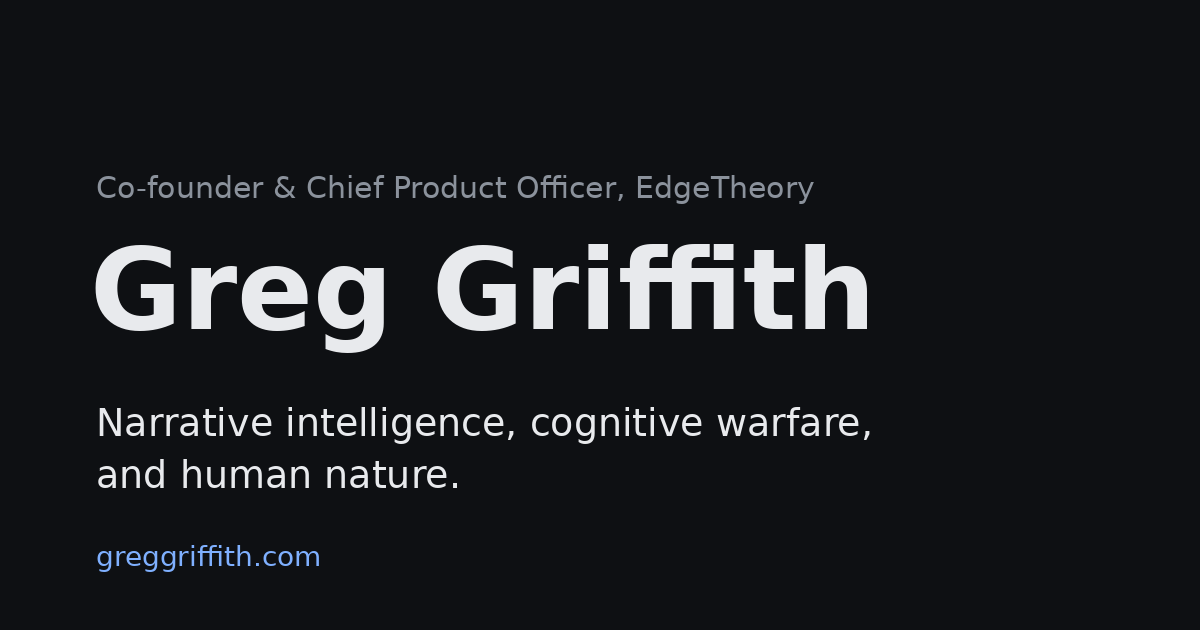
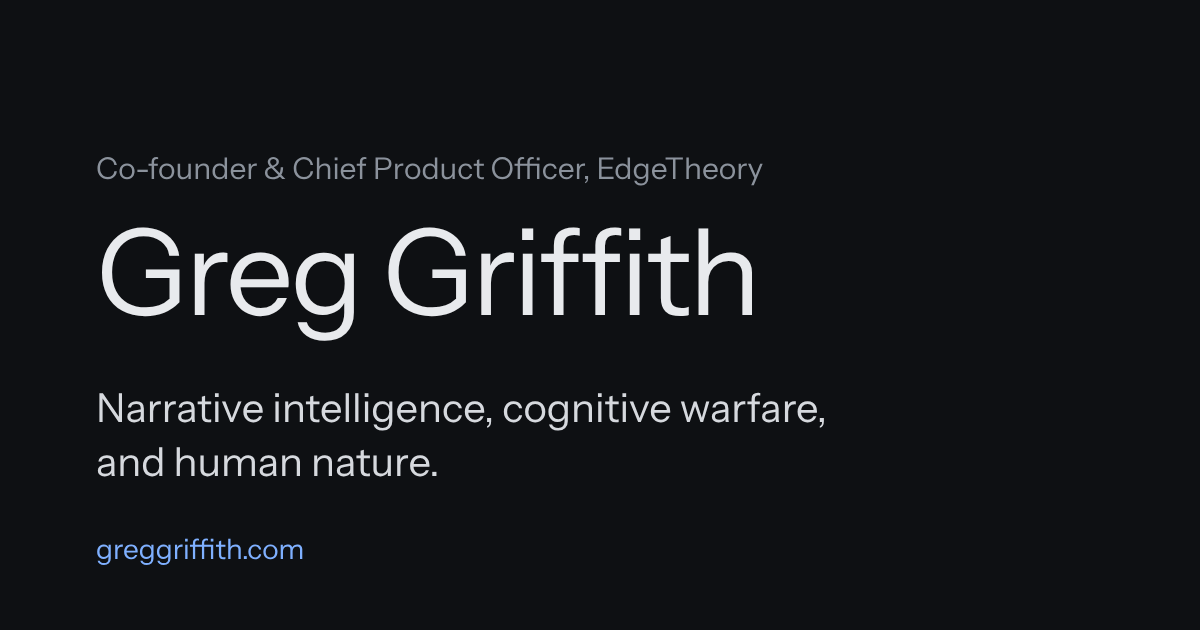
Typography: self-hosted Instrument Sans, regular-weight name
Fonts served from /fonts (SIL Open Font License included). Share image
and icons re-rendered in the same typeface.

Claude-Session: https://claude.ai/code/session_01ESXYvzmg8xqagXQqgT72cA

diff --git a/assets/site.css b/assets/site.css
@@ -1,4 +1,10 @@
 /* greggriffith.com — shared styles. Dark by default; [data-theme="light"] switches to light. */
+/* Instrument Sans (SIL Open Font License; see /fonts/OFL-InstrumentSans.txt), self-hosted */
+@font-face { font-family: "Instrument Sans"; font-style: normal; font-weight: 400; font-display: swap; src: url("/fonts/instrument-sans-latin-400-normal.woff2") format("woff2"); }
+@font-face { font-family: "Instrument Sans"; font-style: italic; font-weight: 400; font-display: swap; src: url("/fonts/instrument-sans-latin-400-italic.woff2") format("woff2"); }
+@font-face { font-family: "Instrument Sans"; font-style: normal; font-weight: 500; font-display: swap; src: url("/fonts/instrument-sans-latin-500-normal.woff2") format("woff2"); }
+@font-face { font-family: "Instrument Sans"; font-style: normal; font-weight: 600; font-display: swap; src: url("/fonts/instrument-sans-latin-600-normal.woff2") format("woff2"); }
+
 :root {
   --bg: #0e1013;
   --surface: #15181d;
@@ -6,7 +12,7 @@
   --muted: #8b929c;
   --faint: #262a31;
   --accent: #7fb0ff;
-  --font: "Inter", system-ui, -apple-system, "Segoe UI", Roboto, "Helvetica Neue", Arial, sans-serif;
+  --font: "Instrument Sans", system-ui, -apple-system, "Segoe UI", Roboto, "Helvetica Neue", Arial, sans-serif;
   color-scheme: dark;
 }
 :root[data-theme="light"] {
@@ -37,7 +43,7 @@ a:focus-visible, button:focus-visible { outline: 2px solid var(--accent); outlin
 
 /* Header */
 .mast { display: flex; justify-content: space-between; align-items: center; gap: 1rem; padding: 1.6rem 0; }
-.mast .word { white-space: nowrap; font-weight: 600; letter-spacing: -.01em; text-decoration: none; color: var(--text); }
+.mast .word { white-space: nowrap; font-weight: 500; letter-spacing: -.01em; text-decoration: none; color: var(--text); }
 .mast nav { display: flex; align-items: center; gap: 0 1.4rem; font-size: .92rem; }
 .mast nav a { white-space: nowrap; text-decoration: none; color: var(--muted); min-height: 44px; display: inline-flex; align-items: center; }
 .mast nav a:hover { color: var(--text); }
@@ -60,7 +66,7 @@ a:focus-visible, button:focus-visible { outline: 2px solid var(--accent); outlin
 /* Hero */
 .hero { padding: 5rem 0 4rem; }
 .kicker { margin: 0 0 1.2rem; font-size: .85rem; color: var(--muted); }
-h1 { font-weight: 600; font-size: clamp(2.6rem, 7vw, 4rem); line-height: 1.05; letter-spacing: -.035em; margin: 0 0 1.5rem; }
+h1 { font-weight: 400; font-size: clamp(2.8rem, 7.5vw, 4.4rem); line-height: 1.05; letter-spacing: -.025em; margin: 0 0 1.5rem; }
 .lede { font-size: 1.2rem; line-height: 1.6; color: var(--text); margin: 0; max-width: 38rem; }
 .profiles { display: flex; flex-wrap: wrap; gap: 0 1.4rem; margin: 2rem 0 0; font-size: .95rem; }
 .profiles a { min-height: 44px; display: inline-flex; align-items: center; }
@@ -86,12 +92,12 @@ p { margin: 0 0 1.2rem; }
 .posts li { padding: 1.4rem 0; border-top: 1px solid var(--faint); }
 .posts li:first-child { border-top: 0; padding-top: 0; }
 .meta { margin: 0 0 .3rem; font-size: .85rem; color: var(--muted); }
-.posts h3 { font-size: 1.25rem; font-weight: 600; letter-spacing: -.015em; line-height: 1.35; margin: 0 0 .4rem; }
+.posts h3 { font-size: 1.3rem; font-weight: 500; letter-spacing: -.015em; line-height: 1.35; margin: 0 0 .4rem; }
 .posts h3 a { text-decoration: none; }
 .posts .blurb { margin: 0; color: var(--muted); }
 
 /* Page titles (blog index, posts) */
-.page-title { font-weight: 600; font-size: clamp(2.2rem, 6vw, 3rem); line-height: 1.1; letter-spacing: -.03em; margin: 3.5rem 0 1rem; }
+.page-title { font-weight: 400; font-size: clamp(2.2rem, 6vw, 3rem); line-height: 1.1; letter-spacing: -.03em; margin: 3.5rem 0 1rem; }
 .intro { color: var(--muted); margin: 0 0 3rem; }
 
 /* Footer */

diff --git a/index.html b/index.html
@@ -6,7 +6,6 @@
   <title>Greg Griffith – Co-founder and Chief Product Officer, EdgeTheory</title>
   <meta name="description" content="Greg Griffith is co-founder and Chief Product Officer of EdgeTheory, a narrative intelligence company that helps government and commercial organizations understand how narratives form, how they spread, and how they shape the decisions that matter most.">
   <link rel="canonical" href="https://greggriffith.com/">
-  <link rel="icon" href="/favicon.svg" type="image/svg+xml">
   <link rel="icon" href="/favicon-32.png" type="image/png" sizes="32x32">
   <link rel="apple-touch-icon" href="/apple-touch-icon.png">
 
@@ -90,6 +89,7 @@
   </script>
   <script>try{if(localStorage.getItem("theme")==="light")document.documentElement.setAttribute("data-theme","light")}catch(e){}</script>
   <meta name="color-scheme" content="dark light">
+  <link rel="preload" href="/fonts/instrument-sans-latin-400-normal.woff2" as="font" type="font/woff2" crossorigin>
   <link rel="stylesheet" href="/assets/site.css">
   <script src="/assets/theme.js" defer></script>
 </head>

diff --git a/blog/index.html b/blog/index.html
@@ -6,7 +6,6 @@
   <title>Writing – Greg Griffith</title>
   <meta name="description" content="Essays by Greg Griffith, co-founder and Chief Product Officer of EdgeTheory, on narrative intelligence, cognitive warfare, and human nature.">
   <link rel="canonical" href="https://greggriffith.com/blog/">
-  <link rel="icon" href="/favicon.svg" type="image/svg+xml">
   <link rel="icon" href="/favicon-32.png" type="image/png" sizes="32x32">
   <meta property="og:type" content="website">
   <meta property="og:site_name" content="Greg Griffith">
@@ -30,6 +29,7 @@
   </script>
   <script>try{if(localStorage.getItem("theme")==="light")document.documentElement.setAttribute("data-theme","light")}catch(e){}</script>
   <meta name="color-scheme" content="dark light">
+  <link rel="preload" href="/fonts/instrument-sans-latin-400-normal.woff2" as="font" type="font/woff2" crossorigin>
   <link rel="stylesheet" href="/assets/site.css">
   <script src="/assets/theme.js" defer></script>
 </head>

diff --git a/404.html b/404.html
@@ -5,9 +5,10 @@
   <meta name="viewport" content="width=device-width, initial-scale=1">
   <title>Page not found – Greg Griffith</title>
   <meta name="robots" content="noindex">
-  <link rel="icon" href="/favicon.svg" type="image/svg+xml">
+  <link rel="icon" href="/favicon-32.png" type="image/png" sizes="32x32">
   <script>try{if(localStorage.getItem("theme")==="light")document.documentElement.setAttribute("data-theme","light")}catch(e){}</script>
   <meta name="color-scheme" content="dark light">
+  <link rel="preload" href="/fonts/instrument-sans-latin-400-normal.woff2" as="font" type="font/woff2" crossorigin>
   <link rel="stylesheet" href="/assets/site.css">
   <script src="/assets/theme.js" defer></script>
 </head>
